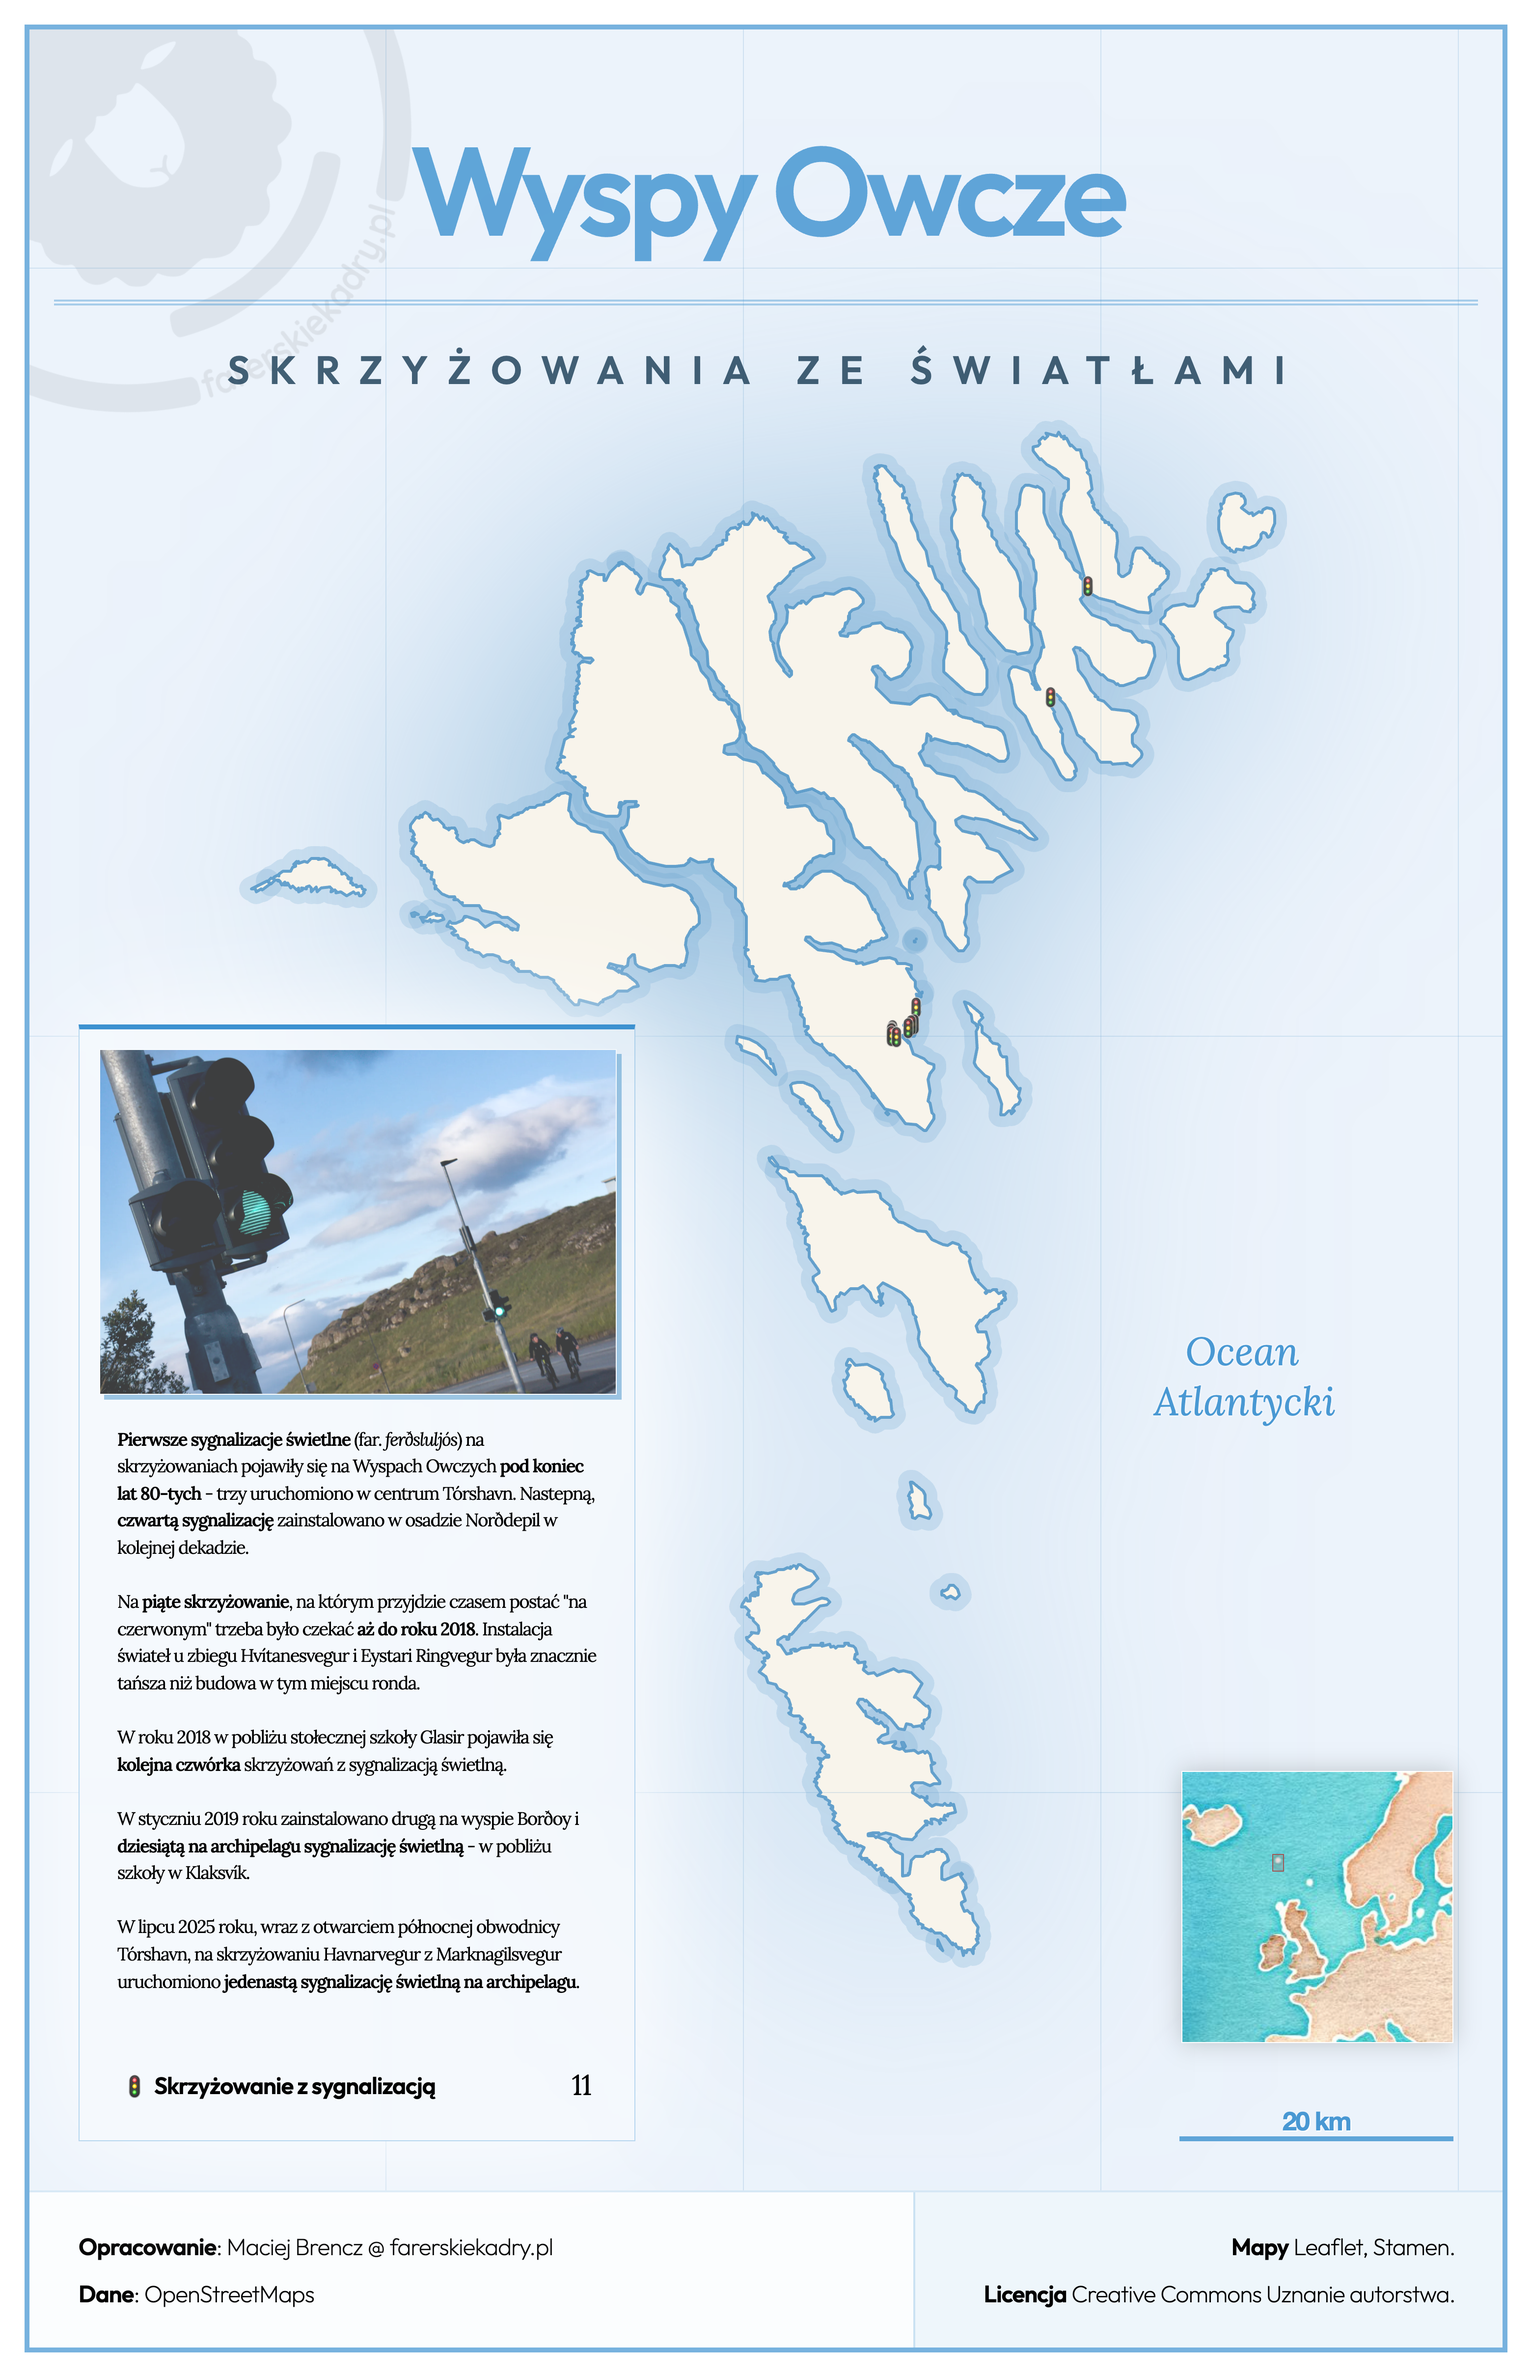
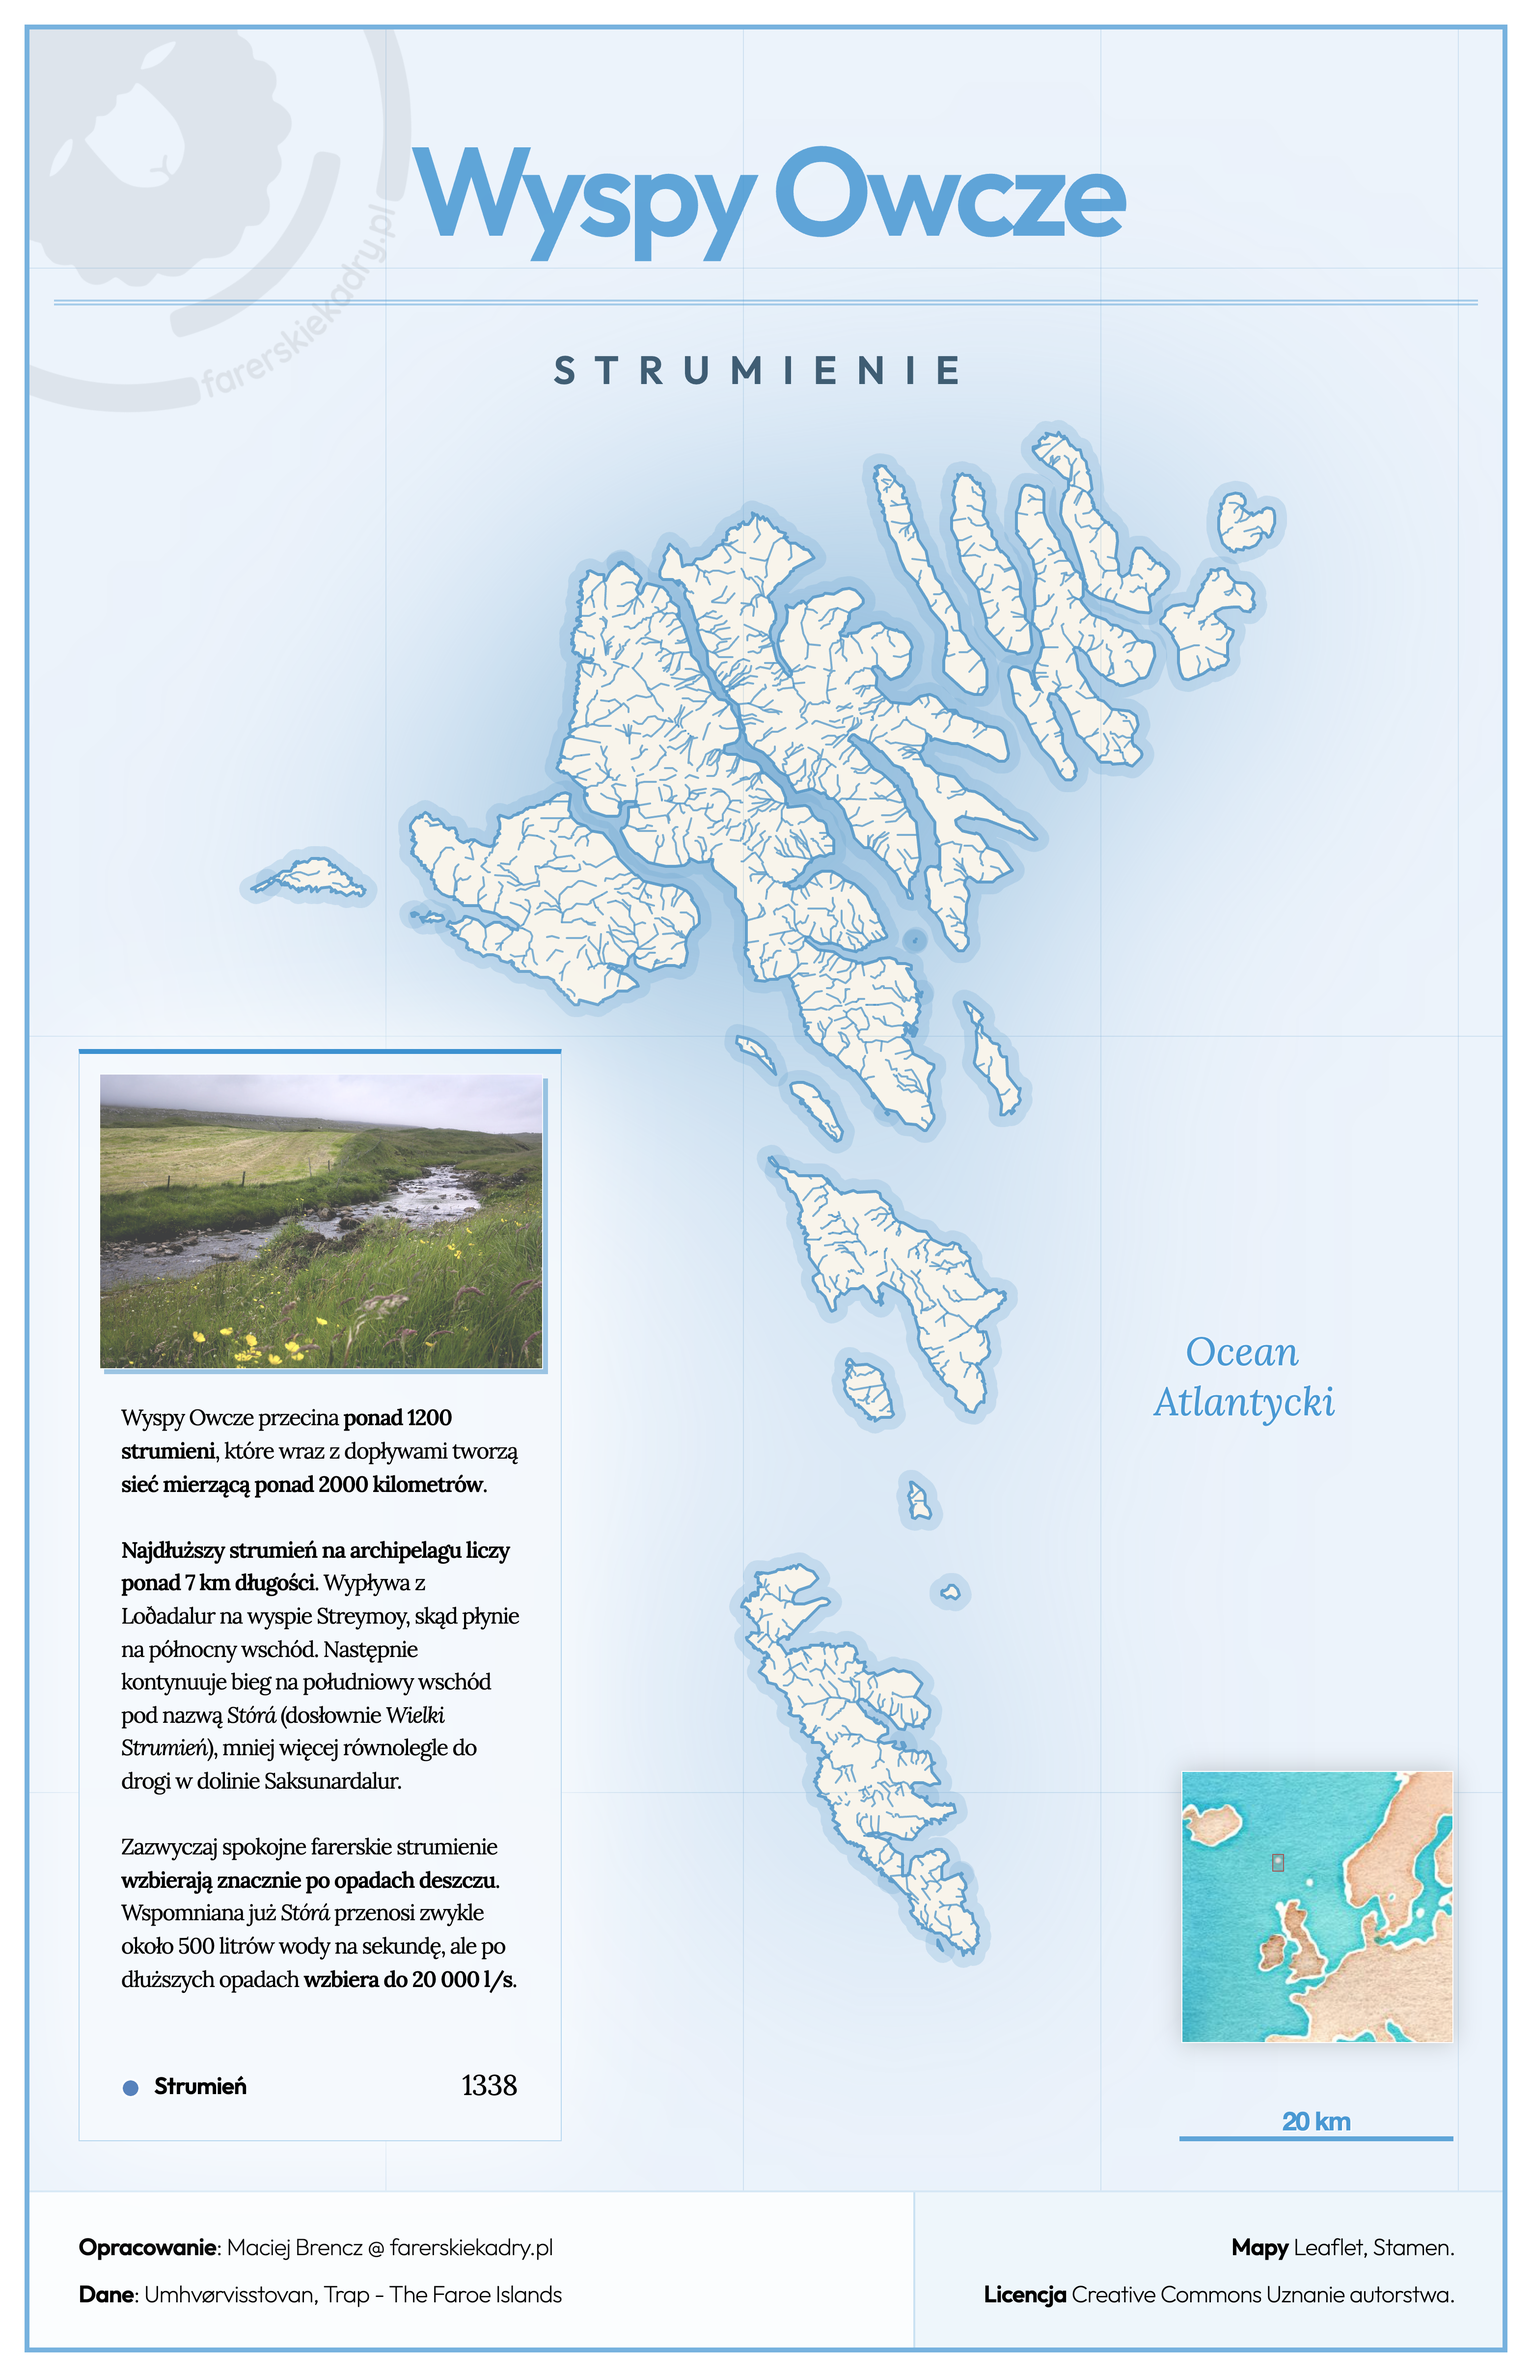
Streams

diff --git a/faroe.html b/faroe.html
@@ -28,40 +28,26 @@
 				<h1 lang="en">Faroe Islands</h1>
 				<h1 lang="pl">Wyspy Owcze</h1>
 
-				<h2 lang="en">Traffic Lights</h2>
-				<h2 lang="pl">Skrzyżowania ze światłami</h2>
+				<h2 lang="en">Streams</h2>
+				<h2 lang="pl">Strumienie</h2>
 
 				<legend>
-					<img src="https://i0.wp.com/farerskiekadry.pl/wp-content/uploads/2024/04/53679957871_43d44d2398_o_d-scaled.jpg?resize=1920%2C1277&quality=89&ssl=1">
+					<img src="https://www.flickr.com/photo_download.gne?id=20351372006&secret=33c45aa4fb&size=c&source=photoPageEngagement">
 <!--					<div id="legend-overlay">🧻</div>-->
 					<p lang="en">
-						<strong>The first traffic lights</strong> (Faroese: <em>ferðsluljós</em>) at junctions appeared in the Faroe Islands in the late 1980s, when three were put into operation in central Tórshavn.
-						The next one, <strong>the fourth</strong>, was installed in the village of Norðdepil in the following decade.
+						The Faroe Islands have <strong>around 1,200 streams</strong>, which with their associated tributaries have a <strong>total length of around 2,100 kilometres</strong>.
+						They are characterised by generally being short (<strong>less than 1 km long on average</strong>) with modest water flow.
 						<br><br>
-						The <strong>fifth junction</strong> where you might sometimes have to wait at a red light <strong>did not arrive
-						until 2018</strong>. Installing traffic lights at the junction of Hvítanesvegur and Eystari Ringvegur was
-						much cheaper than building a roundabout there.
+						<strong>The longest stream is just over 7 km long</strong>. It rises in Loðadalur on Streymoy, from where it runs northeast. It then continues southeast under the name <em>Stórá</em> (literally <em>The Big Stream</em>) more or less parallel to the Saksunarvegur road.
 						<br><br>
-						In August 2018, <strong>another four junctions</strong> with traffic lights appeared near the Glasir College in
-						the capital.
-						<br><br>
-						In January 2019, the second set of traffic lights on Borðoy, and <strong>the tenth in the
-						archipelago</strong>, was installed near the school in Klaksvík.
-						<br><br>
-						In July 2025, with the opening of Tórshavn's northern bypass, <strong>the eleventh set of traffic lights</strong> in the archipelago was put into operation at the junction of Havnarvegur and Marknagilsvegur.
+						<strong>The flow increases significantly after rainfall</strong>. <em>Stórá</em> at Hvalvík flows at 500 l/s during dry periods, but quickly reaches 20,000 l/s after hours of rain.
 					</p>
 					<p lang="pl">
-						<strong>Pierwsze sygnalizacje świetlne</strong> (far. <em>ferðsluljós</em>) na skrzyżowaniach pojawiły się na Wyspach Owczych <strong>pod koniec lat 80-tych</strong> - trzy uruchomiono w centrum Tórshavn.
-						Nastepną, <strong>czwartą sygnalizację</strong> zainstalowano w osadzie Norðdepil w kolejnej dekadzie.
+						Wyspy Owcze przecina <strong>ponad 1200 strumieni</strong>, które wraz z dopływami tworzą <strong>sieć mierzącą ponad 2000 kilometrów</strong>.
 						<br><br>
-						Na <strong>piąte skrzyżowanie</strong>, na którym przyjdzie czasem postać "na czerwonym" trzeba było czekać <strong>aż do roku 2018</strong>. Instalacja świateł u zbiegu Hvítanesvegur i Eystari Ringvegur była znacznie tańsza niż budowa w tym miejscu ronda.
-						<!-- https://kvf.fo/greinar/2018/04/12/traffic-lights-ease-congestion-busy-junction -->
+						<strong>Najdłuższy strumień na archipelagu liczy ponad 7 km długości</strong>. Wypływa z Loðadalur na wyspie Streymoy, skąd płynie na północny wschód. Następnie kontynuuje bieg na południowy wschód pod nazwą <em>Stórá</em> (dosłownie <em>Wielki Strumień</em>), mniej więcej równolegle do drogi w dolinie Saksunardalur.
 						<br><br>
-						W roku 2018 w pobliżu stołecznej szkoły Glasir pojawiła się <strong>kolejna czwórka</strong> skrzyżowań z sygnalizacją świetlną.
-						<br><br>
-						W styczniu 2019 roku zainstalowano drugą na wyspie Borðoy i <strong>dziesiątą na archipelagu sygnalizację świetlną</strong> - w pobliżu szkoły w Klaksvík.
-						<br><br>
-						W lipcu 2025 roku, wraz z otwarciem północnej obwodnicy Tórshavn, na skrzyżowaniu Havnarvegur z Marknagilsvegur uruchomiono <strong>jedenastą sygnalizację świetlną na archipelagu</strong>.
+						Zazwyczaj spokojne farerskie strumienie <strong>wzbierają znacznie po opadach deszczu</strong>. Wspomniana już <em>Stórá</em> przenosi zwykle około 500 litrów wody na sekundę, ale po dłuższych opadach <strong>wzbiera do 20 000 l/s</strong>.
 					</p>
 					<ul>
 						<!--<li><span class="marker black"></span><span lang="en">major towns</span><span lang="pl">główne miasta</span></li>-->
@@ -99,7 +85,7 @@
 						<strong lang="en">Research</strong><strong lang="pl">Opracowanie</strong>: Maciej Brencz @ farerskiekadry.pl
 					</p>
 					<p>
-						<strong lang="en">Data</strong><strong lang="pl">Dane</strong>: OpenStreetMaps<!--Umhvørvisstovan / foroyakort.fo--><!-- , Landsverk, Umhvørvisstovan, Strandfaraskip Landsins, SEV, OpenStreetMaps, rusan.fo--><!--, WikiData,, Visit Faroe Islands-->
+						<strong lang="en">Data</strong><strong lang="pl">Dane</strong>: Umhvørvisstovan, Trap - The Faroe Islands<!-- OpenStreetMaps / foroyakort.fo--><!-- , Landsverk, Umhvørvisstovan, Strandfaraskip Landsins, SEV, OpenStreetMaps, rusan.fo--><!--, WikiData,, Visit Faroe Islands-->
 					</p>
 				</div>
 
@@ -140,10 +126,14 @@
 				let counts = [];
 
 				// https://leafletjs.com/reference.html#geojson
-				/**
-    			L.geoJSON(await fetchGeoJSON('/geojson/fo-hikes.json'), {
+				/**/
+    			L.geoJSON(await fetchGeoJSON('/geojson/us-topo-topo_20-109-River_line.json'), {
 					pane: `markers-blue`, // so that the geojson layer is rendered and visible
+					/**
+					 @ts-check
+					 @param feature {GeoFeature} */
 					style: feature => {
+                        /**
 						const distance_km = feature.properties.distance_km;
 						let colour = 'green'; // up to 4 km
 						let weight = 2;
@@ -162,15 +152,23 @@
 						}
 
 						console.log(colour, {name: feature.properties.name, distance: feature.properties.distance_km});
+						**/
+                        const colour = 'blue';
 
 						counts[colour] = counts[colour] || 0;
 						counts[colour]++;
 
+
+                        // https://gis.us.fo/arcgis/rest/services/topo/topo_20/MapServer/109
+						// WID ( type: esriFieldTypeDouble, alias: Width )
+                        // const weight = Math.min(feature.properties.WID || 1, 5);
+                        const weight = 2;
+
 						// https://leafletjs.com/reference.html#path-option
 						return {
-							color: coloursMapping[colour] || 'black',
+							color: '#3c91d0', // coloursMapping[colour] || 'black',
 							weight,
-							opacity: 0.7,
+							opacity: 0.8,
 						};
 					},
 					// add markers at both ends of the trail
@@ -183,13 +181,14 @@
 
 						L.marker([start[1], start[0]], {icon: getIcon('blue', '', 4), pane: `markers-blue`}).addTo(map);
 						L.marker([end[1], end[0]], {icon: getIcon('blue', '', 4), pane: `markers-blue`}).addTo(map);
-        			}
+        			}**/
 				}).addTo(map);
 
-				addLabel('dark-green', 'Up to 5 km long', 'Do 5 km długości', counts['green']);
-				addLabel('red', 'Between 5 to 10 km', 'Od 5 do 10 km', counts['red']);
-				addLabel('orange', 'Between 10 and 15 km', 'Od 10 km do 15 km', counts['orange']);
-				addLabel('black', 'Over 15 km', 'Ponad 15 km', counts['black']);
+				// addLabel('dark-green', 'Up to 5 km long', 'Do 5 km długości', counts['green']);
+				// addLabel('red', 'Between 5 to 10 km', 'Od 5 do 10 km', counts['red']);
+				// addLabel('orange', 'Between 10 and 15 km', 'Od 10 km do 15 km', counts['orange']);
+				// addLabel('black', 'Over 15 km', 'Ponad 15 km', counts['black']);
+				addLabel('blue', 'Stream', 'Strumień', counts['blue']);
 
 				/**
 				// green / blue / yellow
@@ -213,12 +212,12 @@
                     'galta': 'red', // gøltur - hog / boar (galta - plural genitiv)
                     'súgv': 'black', // súgv - sow
                 };
-				**/
+				/**
 
 				L.geoJSON(await fetchGeoJSON('/geojson/osm-highway-traffic_signals.geojson'), {
                     /**
 					 * @ts-check
-					 * @param feature {GeoFeature} */
+					 * @param feature {GeoFeature}
 					onEachFeature: feature => {
 						const geo = feature.geometry.coordinates;
 						console.log(feature.properties);
@@ -264,7 +263,7 @@
 						// else if (isWooden) {
 						// 	color = 'green';
 						// }
-						**/
+						**
 
                         const color = 'green';
 
@@ -357,13 +356,13 @@
 
 		<style>
 			legend {
-				/*width: 30%;*/
-				width: 35%;
+				width: 30%;
+				/*width: 35%;*/
 			}
 
 			legend p {
-				/*font-size: 2.8em;*/
-				font-size: 2.3em;
+				font-size: 2.8em;
+				/*font-size: 2.3em;*/
 			}
 
 			/**
